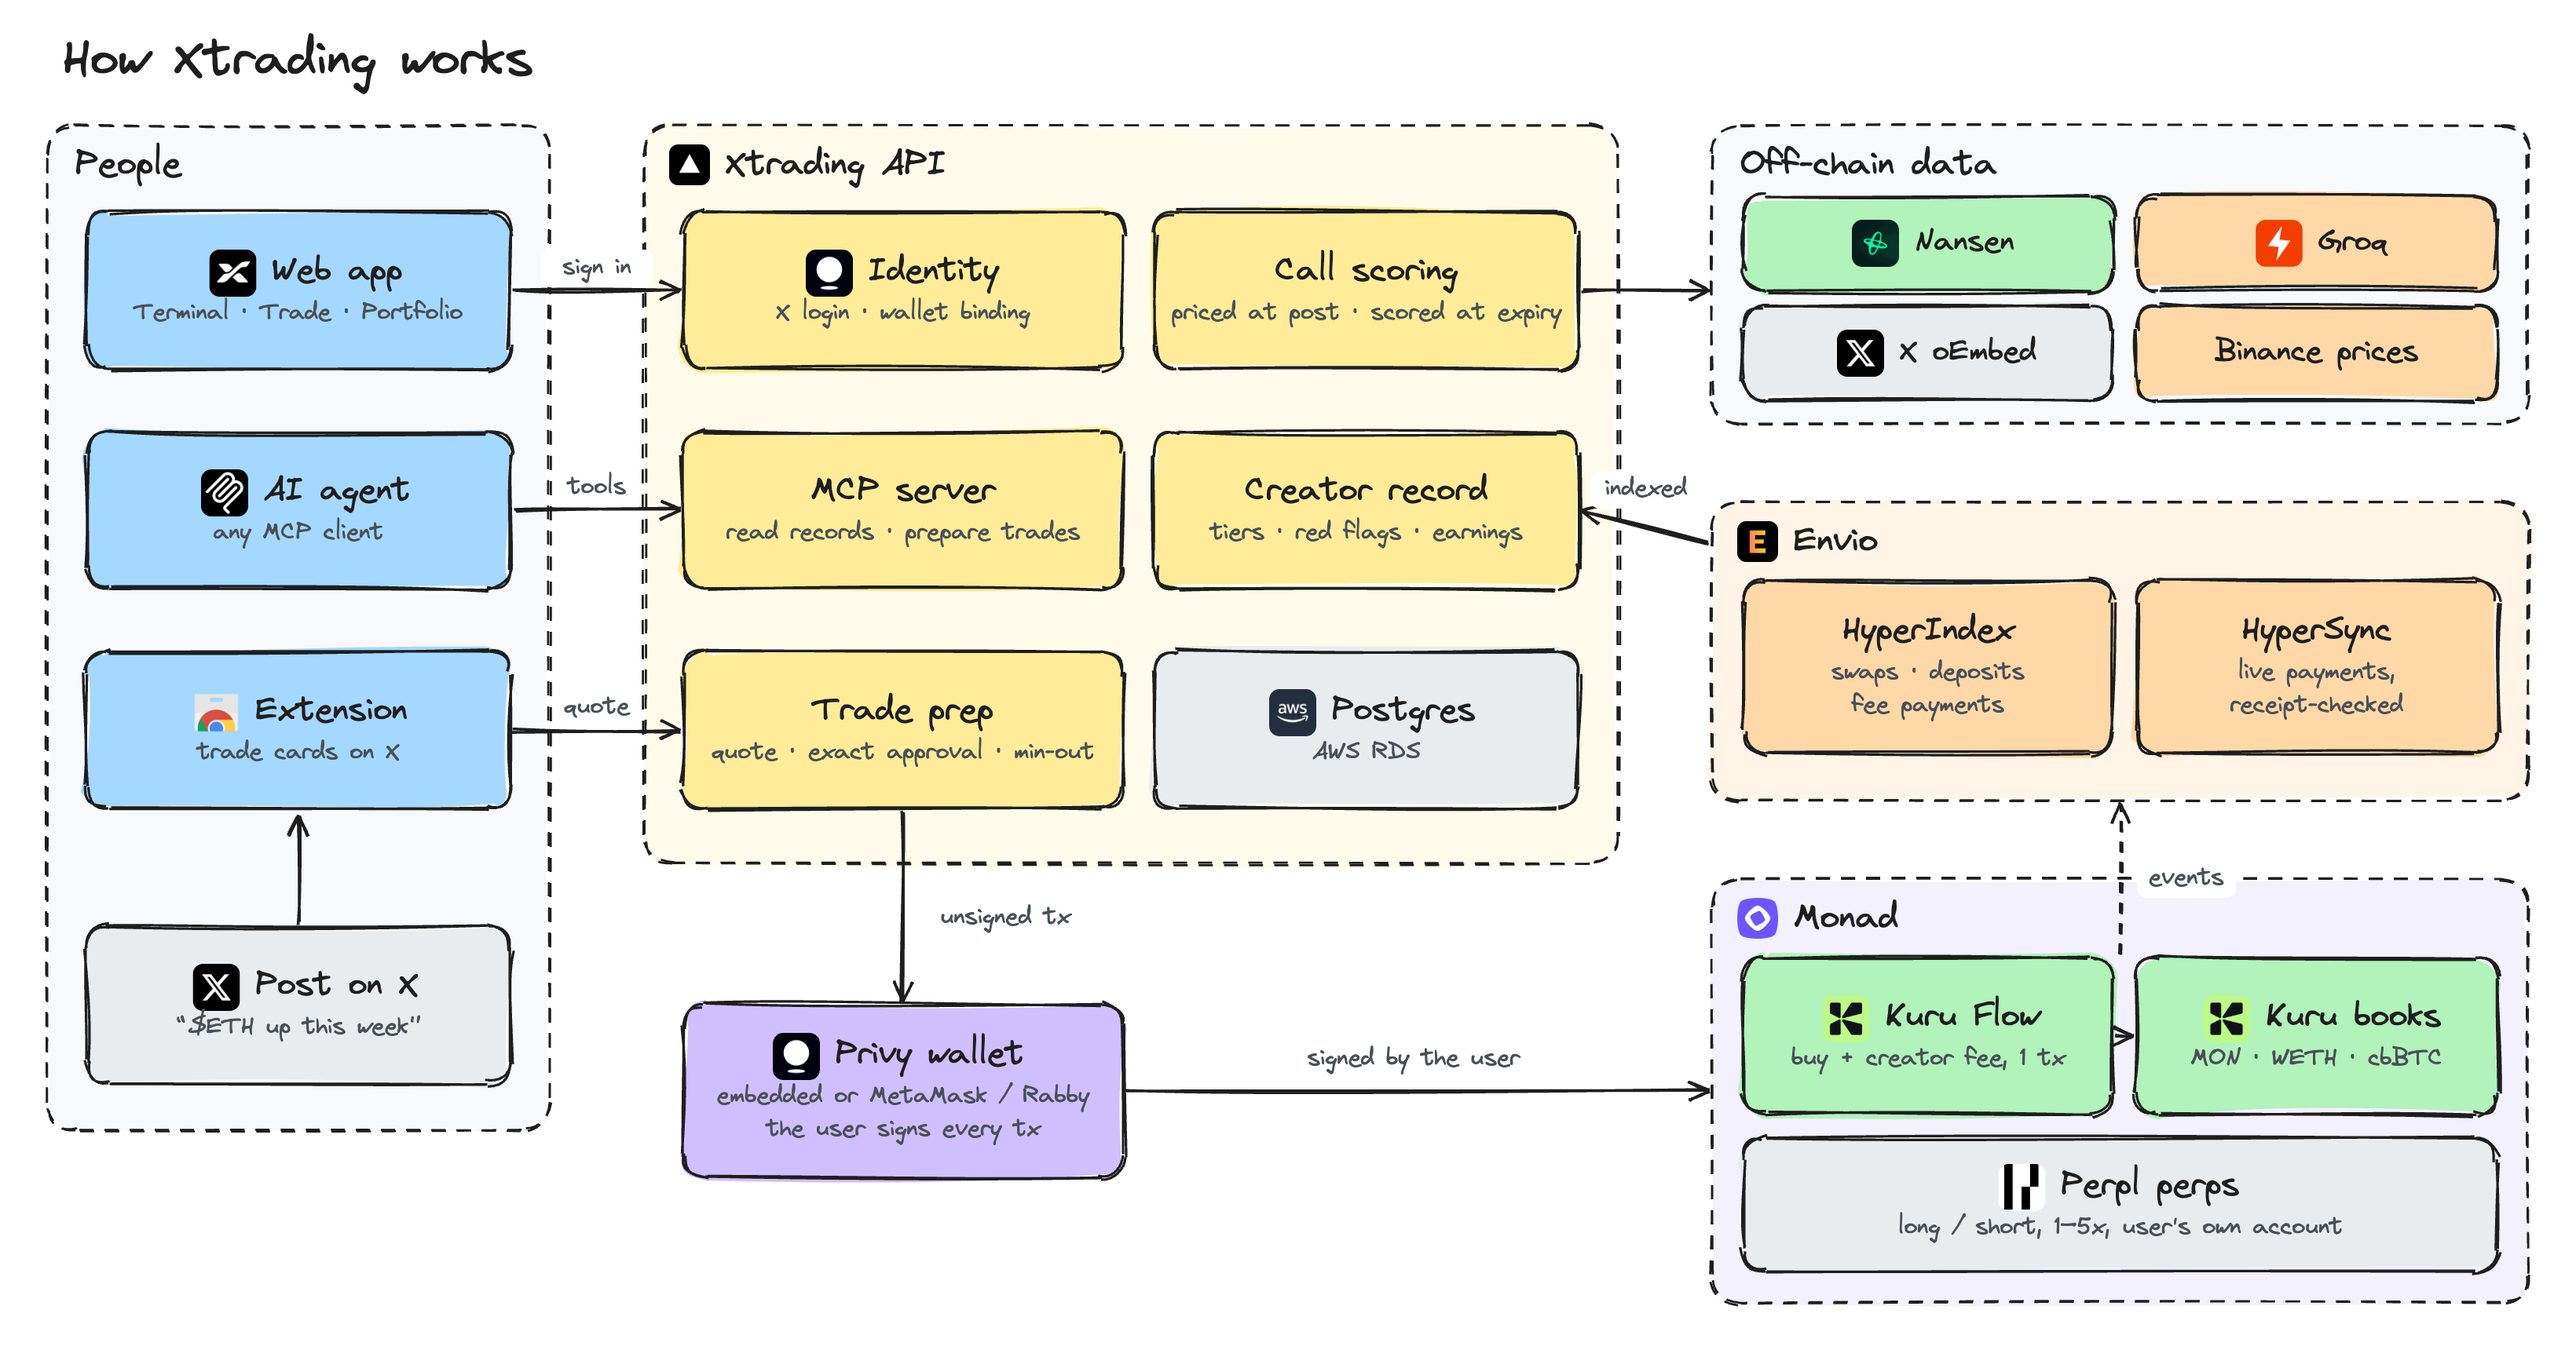
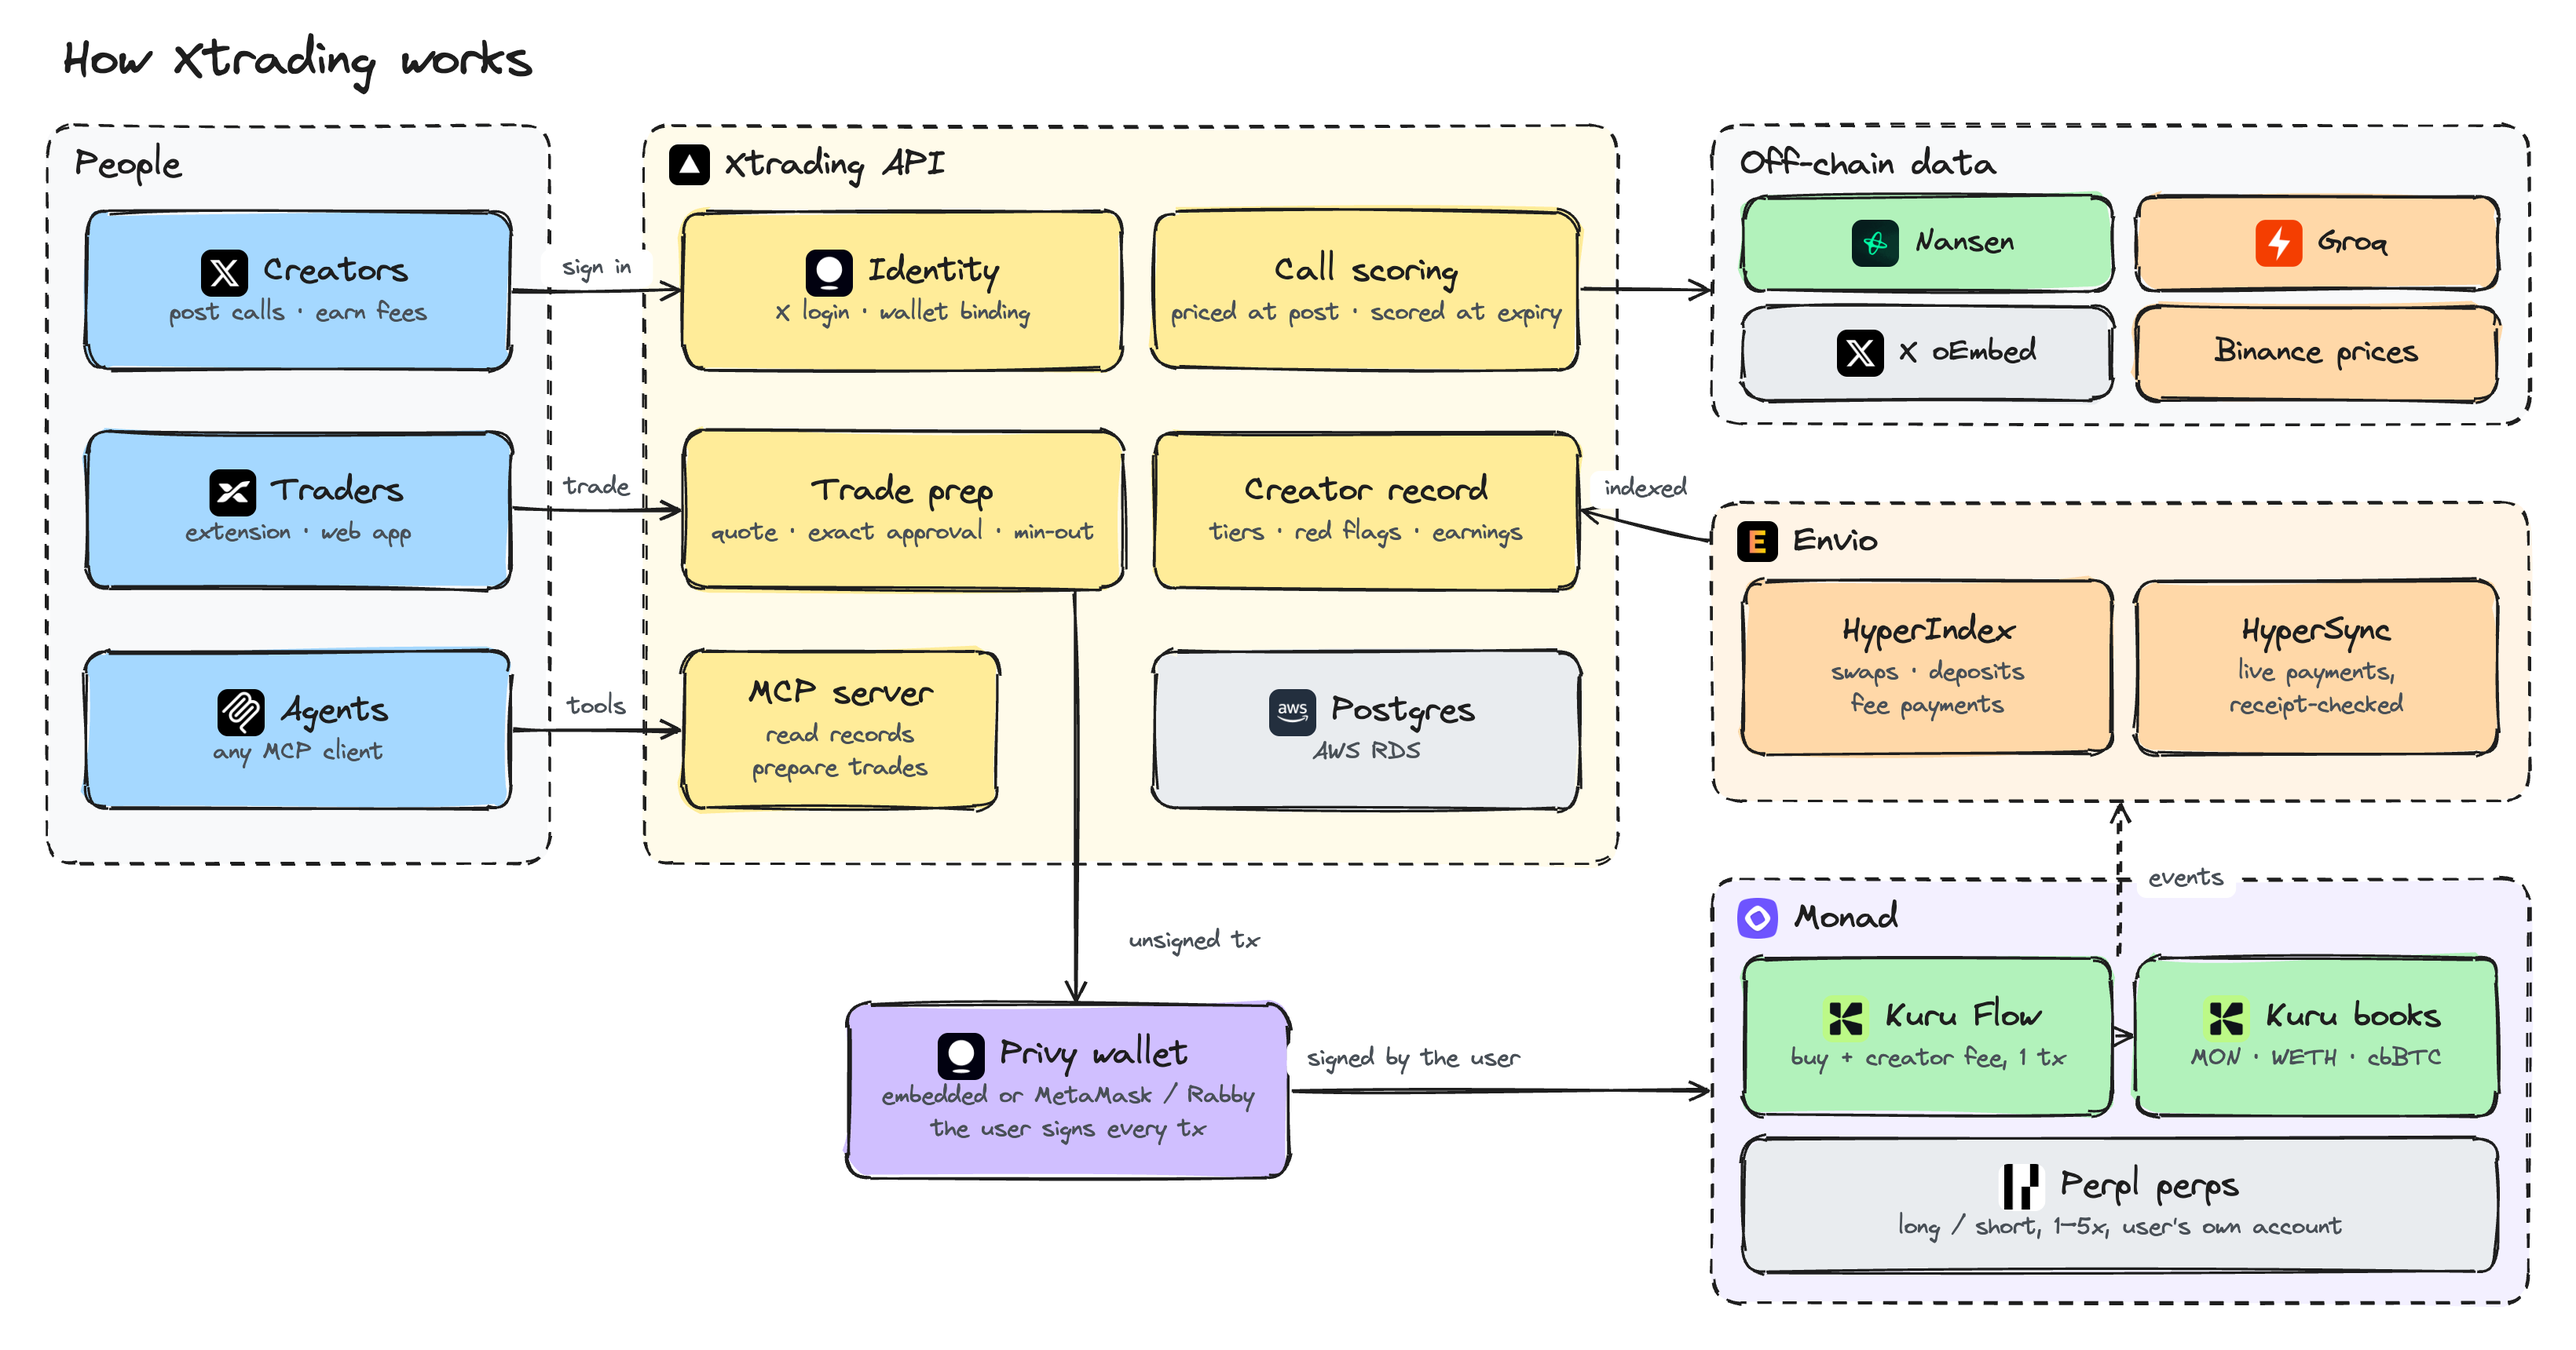
arch added

diff --git a/docs/assets/diagrams/source/draw.html b/docs/assets/diagrams/source/draw.html
@@ -102,29 +102,28 @@ function architecture() {
   text(40, 40, "How Xtrading works", { size: 32, anchor: "start" });
 
   // Left: where people are.
-  frame(30, 80, 320, 640, "People");
-  box(55, 135, 270, 100, { fill: C.blue, title: "Web app", sub: "Terminal · Trade · Portfolio", logo: "xtrading-icon.png" });
-  box(55, 275, 270, 100, { fill: C.blue, title: "AI agent", sub: "any MCP client", logo: "mcp.png" });
-  box(55, 415, 270, 100, { fill: C.blue, title: "Extension", sub: "trade cards on X", logo: "chrome.png" });
-  box(55, 590, 270, 100, { fill: C.gray, title: "Post on X", sub: "“$ETH up this week”", logo: "x.png" });
-  arrow([[190, 588], [190, 520]], "");
+  frame(30, 80, 320, 470, "People");
+  box(55, 135, 270, 100, { fill: C.blue, title: "Creators", sub: "post calls · earn fees", logo: "x.png" });
+  box(55, 275, 270, 100, { fill: C.blue, title: "Traders", sub: "extension · web app", logo: "xtrading-icon.png" });
+  box(55, 415, 270, 100, { fill: C.blue, title: "Agents", sub: "any MCP client", logo: "mcp.png" });
 
   // Middle: the Xtrading server.
   frame(410, 80, 620, 470, "Xtrading API", { logo: "vercel.png", fill: "#fffbea" });
   box(435, 135, 280, 100, { title: "Identity", sub: "X login · wallet binding", logo: "privy.png" });
   box(735, 135, 270, 100, { title: "Call scoring", sub: "priced at post · scored at expiry" });
-  box(435, 275, 280, 100, { title: "MCP server", sub: "read records · prepare trades" });
+  box(435, 275, 280, 100, { title: "Trade prep", sub: "quote · exact approval · min-out" });
   box(735, 275, 270, 100, { title: "Creator record", sub: "tiers · red flags · earnings" });
-  box(435, 415, 280, 100, { title: "Trade prep", sub: "quote · exact approval · min-out" });
+  // Narrower, so the unsigned transaction can drop past it to the wallet.
+  box(435, 415, 200, 100, { title: "MCP server", sub: ["read records", "prepare trades"] });
   box(735, 415, 270, 100, { fill: C.gray, title: "Postgres", sub: "AWS RDS", logo: "aws.png" });
 
   arrow([[327, 185], [433, 185]], "sign in");
-  arrow([[327, 325], [433, 325]], "tools");
-  arrow([[327, 465], [433, 465]], "quote");
+  arrow([[327, 325], [433, 325]], "trade");
+  arrow([[327, 465], [433, 465]], "tools");
 
   // Bottom: the user's own wallet.
-  box(435, 640, 280, 110, { fill: C.violet, title: "Privy wallet", sub: ["embedded or MetaMask / Rabby", "the user signs every tx"], logo: "privy.png" });
-  arrow([[575, 517], [575, 638]], "unsigned tx", { lx: 640, ly: 585 });
+  box(540, 640, 280, 110, { fill: C.violet, title: "Privy wallet", sub: ["embedded or MetaMask / Rabby", "the user signs every tx"], logo: "privy.png" });
+  arrow([[685, 377], [685, 638]], "unsigned tx", { lx: 760, ly: 600 });
 
   // Right: data, indexing and the chain.
   frame(1090, 80, 520, 190, "Off-chain data");
@@ -144,7 +143,7 @@ function architecture() {
   box(1360, 610, 230, 100, { fill: C.green, title: "Kuru books", sub: "MON · WETH · cbBTC", logo: "kuru.png" });
   box(1110, 725, 480, 85, { fill: C.gray, title: "Perpl perps", sub: "long / short, 1–5x, user's own account", logo: "perpl.png" });
   arrow([[1347, 660], [1358, 660]], "");
-  arrow([[717, 695], [1088, 695]], "signed by the user", { lx: 900, ly: 675 });
+  arrow([[822, 695], [1088, 695]], "signed by the user", { lx: 900, ly: 675 });
   arrow([[1350, 608], [1350, 512]], "events", { dashed: true, lx: 1392, ly: 560 });
 }
 
@@ -170,7 +169,63 @@ function flow() {
   text(W - 40, 300, "Xtrading never signs or holds keys", { size: 17, anchor: "end", color: C.muted });
 }
 
-window.render = (name) => { svg.innerHTML = ""; seed = 7; ({ architecture, flow })[name](); };
+
+// One swimlane per kind of user, each read left to right.
+function people() {
+  const W = 1760, laneH = 170, top = 90, gap = 28;
+  const lanes = [
+    {
+      name: "Creators", logo: "x.png", fill: "#fff9db", step: C.yellow,
+      steps: [
+        { title: "Post a call", sub: ["on X, as usual"], logo: "x.png" },
+        { title: "Sign in with X", sub: ["Privy, tied to the", "stable X user ID"], logo: "privy.png" },
+        { title: "Bind a wallet", sub: ["one signed message,", "no deposit"], logo: "privy.png" },
+        { title: "Register it", sub: ["priced at the minute", "it was posted"], logo: "xtrading-icon.png" },
+        { title: "Get scored", sub: ["at expiry; tiers rise,", "red flags demote"] },
+        { title: "Earn per buy", sub: ["0.1–2% via Kuru Flow,", "paid in the same tx"], logo: "kuru.png" },
+      ],
+    },
+    {
+      name: "Traders", logo: "chrome.png", fill: "#e7f5ff", step: C.blue,
+      steps: [
+        { title: "See a call", sub: ["a trade card appears", "under the post"], logo: "x.png" },
+        { title: "Check it", sub: ["creator record, red", "flags, Nansen wallet"], logo: "nansen.png" },
+        { title: "Get a quote", sub: ["Kuru spot or", "Perpl perp"], logo: "kuru.png" },
+        { title: "Sign", sub: ["own wallet: Privy,", "MetaMask or Rabby"], logo: "privy.png" },
+        { title: "Settle", sub: ["on Monad; creator", "fee in the same tx"], logo: "monad.png" },
+        { title: "Track it", sub: ["fills and P&L,", "receipt-checked"], logo: "envio.png" },
+      ],
+    },
+    {
+      name: "Agents", logo: "mcp.png", fill: "#ebfbee", step: C.green,
+      steps: [
+        { title: "Connect", sub: ["any MCP client", "to /api/mcp"], logo: "mcp.png" },
+        { title: "Read records", sub: ["creator tiers,", "calls, red flags"], logo: "xtrading-icon.png" },
+        { title: "Spot a call", sub: ["detect a trade", "call in a post"], logo: "groq.png" },
+        { title: "Prepare", sub: ["an unsigned Kuru", "order, exact amounts"], logo: "kuru.png" },
+        { title: "User signs", sub: ["agents never get", "signing power"], logo: "privy.png" },
+        { title: "Settle", sub: ["on Monad, same", "path as traders"], logo: "monad.png" },
+      ],
+    },
+  ];
+  const H = top + lanes.length * (laneH + gap) + 30;
+  svg.setAttribute("width", W); svg.setAttribute("height", H);
+  text(40, 44, "Who does what", { size: 32, anchor: "start" });
+  const labelW = 170, x0 = 40 + labelW + 10, bw = 222, bg = 30, bh = 120;
+  lanes.forEach((lane, li) => {
+    const y = top + li * (laneH + gap);
+    add(rc.path(rrect(30, y, W - 60, laneH, 18), opt({ fill: lane.fill, fillStyle: "solid", strokeLineDash: [9, 7], strokeWidth: 1.4, roughness: 0.8 })));
+    image(50, y + laneH / 2 - 44, 40, lane.logo);
+    text(50, y + laneH / 2 + 22, lane.name, { size: 28, anchor: "start" });
+    lane.steps.forEach((step, i) => {
+      const x = x0 + i * (bw + bg), by = y + (laneH - bh) / 2;
+      box(x, by, bw, bh, { ...step, fill: lane.step, size: 20 });
+      if (i < lane.steps.length - 1) arrow([[x + bw + 3, by + bh / 2], [x + bw + bg - 3, by + bh / 2]], "");
+    });
+  });
+}
+
+window.render = (name) => { svg.innerHTML = ""; seed = 7; ({ architecture, flow, people })[name](); };
 </script>
 </body>
 </html>

diff --git a/README.md b/README.md
@@ -13,11 +13,11 @@ Crypto Twitter runs on calls. Someone posts "$ETH to 3k this week", thousands of
 
 ## How it works
 
+![Who does what: the step-by-step flow for creators, traders and agents](docs/assets/diagrams/people.png)
+
+### Under the hood
+
 ![Xtrading architecture: people, the Xtrading API, Privy wallet, off-chain data, Envio and Monad](docs/assets/diagrams/architecture.png)
-
-### Buying from a post
-
-![Buying from a post in six steps: see the call, check it, quote, sign, settle, prove it](docs/assets/diagrams/flow.png)
 
 ### Design principles
 
